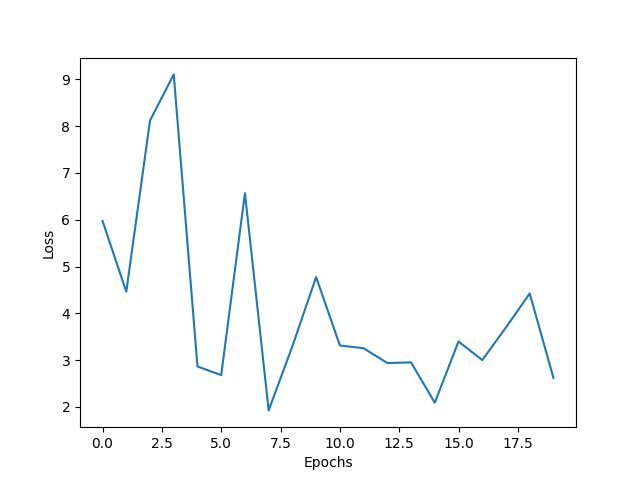
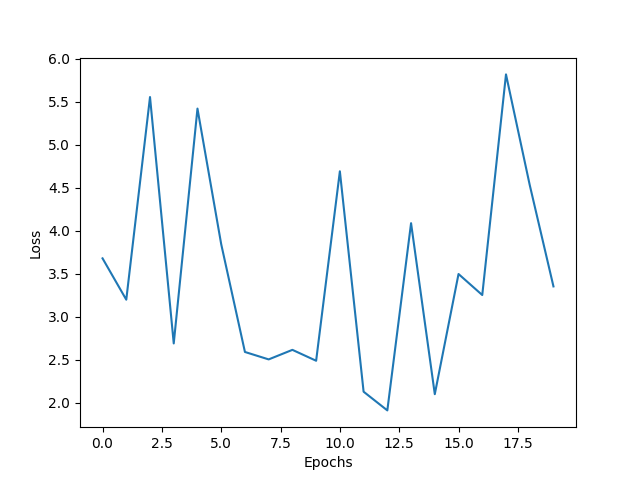
mlp + train/test/val split

diff --git a/data_splitter.py b/data_splitter.py
@@ -1,0 +1,35 @@
+import pandas as pd
+from sklearn.model_selection import train_test_split
+import os
+
+# Load your data
+fdir = "data/generated_lightcurves/xy/"
+directory = os.fsencode(fdir)
+files = [file.decode("utf-8") for file in os.listdir(directory)]
+df = pd.DataFrame(data=files, columns=["file_num"])
+
+# First split: train vs (val+test)
+train_ids, valtest_ids = train_test_split(
+    files,
+    test_size=0.70,    # 30% goes to val+test
+    random_state=42
+)
+
+# Second split: validation vs test
+val_ids, test_ids = train_test_split(
+    valtest_ids,
+    test_size=0.50,    # half goes to test, half to val
+    random_state=42
+)
+
+# Now filter the dataframe based on hotspot_id
+train_df = df[df["file_num"].isin(train_ids)]
+val_df   = df[df["file_num"].isin(val_ids)]
+test_df  = df[df["file_num"].isin(test_ids)]
+
+# Save them
+train_df.to_csv("data/generated_lightcurves/train.csv", index=False)
+val_df.to_csv("data/generated_lightcurves/val.csv", index=False)
+test_df.to_csv("data/generated_lightcurves/test.csv", index=False)
+
+print("Done! Saved train.csv, val.csv, test.csv")

diff --git a/mlp_train.py b/mlp_train.py
@@ -1,0 +1,42 @@
+from transformer import MLP_class, get_dataloader
+import torch
+import torch.nn as nn
+import matplotlib.pyplot as plt
+import numpy as np
+
+dl = get_dataloader(
+    xy_dir="data/generated_lightcurves/xy",
+    param_file="data/generated_lightcurves/params.csv",
+    batch_size=32
+)
+
+model = MLP_class().cuda()
+opt = torch.optim.Adam(model.parameters(), lr=1e-4)
+
+num_epochs = 20
+loss_hist = []
+for epoch in range(num_epochs):
+    opt.zero_grad()
+    print(f"epoch {epoch}")
+    for step, (seqs, mask, params) in enumerate(dl):
+        seqs = seqs.cuda()
+        params = params.cuda()
+
+        pred = model(seqs)
+
+        loss = nn.SmoothL1Loss()(pred, params)
+
+        loss.backward()
+        opt.step()
+
+        if step % 10 == 0:
+            print(f"step {step} loss {loss.item():.5f}")
+    loss_hist.append(loss.item())
+
+print("Training complete!")
+torch.save(model, "chkpt.pth")
+
+plt.plot(range(num_epochs), loss_hist)
+plt.xlabel("Epochs")
+plt.ylabel("Loss")
+plt.savefig('figures/loss.png')

diff --git a/transformer.py b/transformer.py
@@ -80,6 +80,38 @@ def collate_fn(batch):
 
     return padded, mask, params
 
+# ============================================================
+#  Simpler MLP Model
+# ============================================================
+
+import torch.nn as nn
+
+class MLP_class(nn.Module):
+    def __init__(self):
+        super().__init__()
+
+        self.mlp_layers = nn.Sequential(
+            nn.Linear(2000, 1024),
+            nn.ReLU(),
+            nn.Dropout(0.1),
+            nn.Linear(1024, 512),
+            nn.ReLU(),
+        )
+        self.target_size = 6
+
+        self.fc = nn.Sequential(
+            nn.Linear(512, 2048),
+            nn.ReLU(),
+            nn.Dropout(0.2),
+            nn.Linear(2048, self.target_size),
+        )
+
+    def forward(self, x):
+        a, b, c = x.shape
+        out = x.squeeze(1).reshape((a, b * c))
+        out = self.mlp_layers(out)
+        return self.fc(out)
+
 
 # ============================================================
 #  Transformer Model
